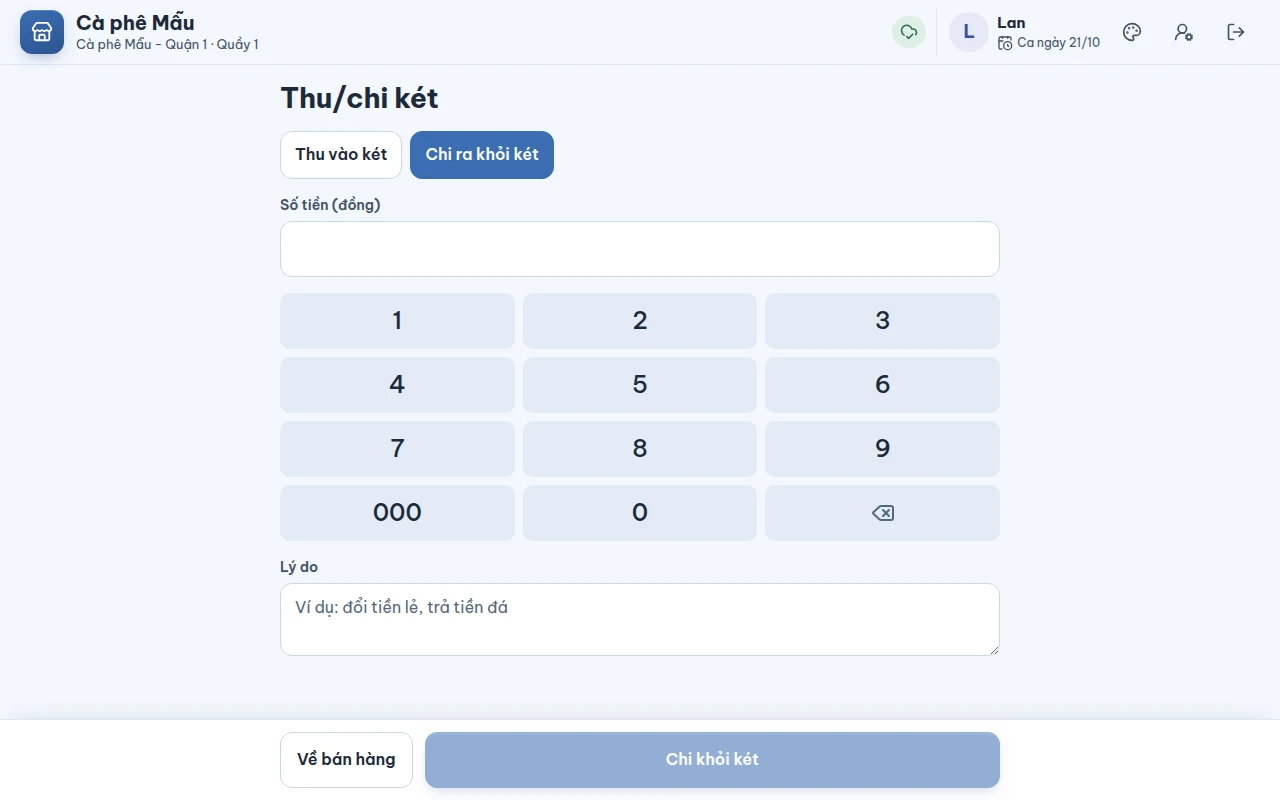
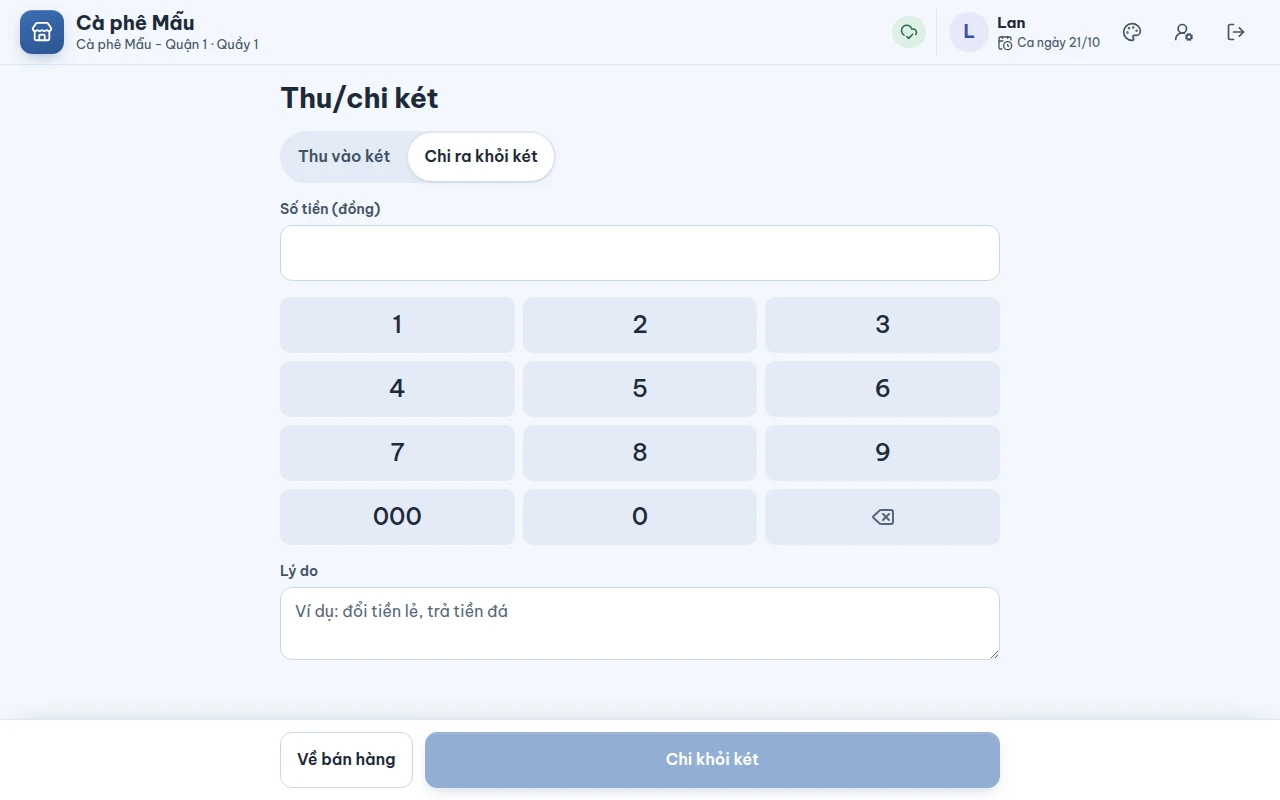
feat(pos): draw cash in and out as the till's segmented switch

diff --git a/apps/pos/src/screens/shift/cash-move-screen.tsx b/apps/pos/src/screens/shift/cash-move-screen.tsx
@@ -72,7 +72,7 @@ export function CashMoveScreen(props: CashMoveScreenProps) {
           {props.notice}
         </p>
       ) : null}
-      <div className="pos-tabs" role="group" aria-label={C.title}>
+      <div className="pos-tabs pos-segmented" role="group" aria-label={C.title}>
         {(["in", "out"] as const).map((each) => (
           <button
             key={each}

diff --git a/docs/handbook/may-quay/07-thu-chi-va-dong-ca.md b/docs/handbook/may-quay/07-thu-chi-va-dong-ca.md
@@ -47,7 +47,7 @@ tests:
 ### Thu hoặc chi tiền két
 
 1. Trên thanh trên cùng bấm **Thu/chi két**.
-2. Chọn **Thu vào két** hoặc **Chi ra khỏi két**, gõ **Số tiền (đồng)**, ghi **Lý do** (ví dụ "đổi tiền lẻ", "trả tiền đá").
+2. Chọn **Thu vào két** hoặc **Chi ra khỏi két** trên công tắc hai bên (bên đang chọn nổi lên), gõ **Số tiền (đồng)**, ghi **Lý do** (ví dụ "đổi tiền lẻ", "trả tiền đá").
 3. Máy hiện trước **Tiền dự kiến trong két sau đó: …**. Bấm **Thu … vào két** / **Chi … khỏi két**.
 
    ![Thu/chi két](../images/may-quay/cash-move.webp)
